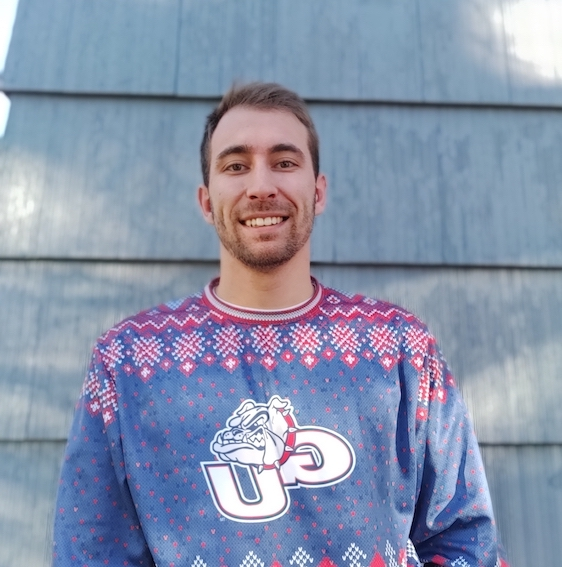
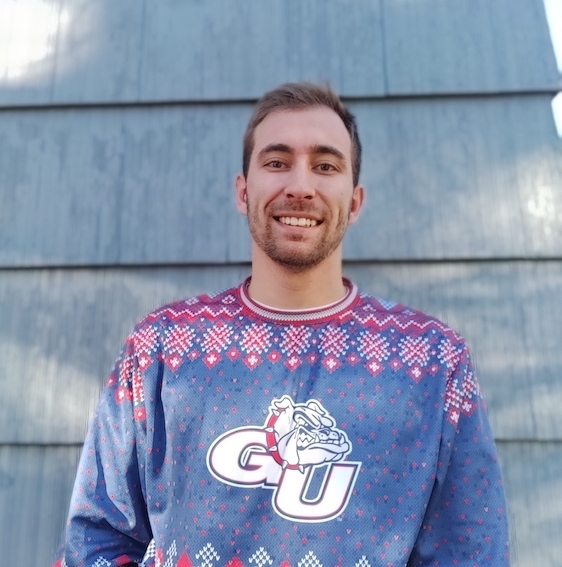
Flips image and fixes bugs

diff --git a/src/components/Home.js b/src/components/Home.js
@@ -184,7 +184,7 @@ class Home extends React.Component {
                                 minHeight: "50vh",
                                 padding: "3rem",}}>
                                     <Text>Recommendations:</Text>
-                        <Carousel>
+                        <Carousel autoPlay="false">
                             <div>
                                 <Text><FormatQuoteIcon/>Josh is a great employee. I've been very impressed with his ability to pick up new skills as well as his attention to detail. Josh is also very easy to work with and is a great team player. He collaborates well with other to ensure a quality product is delivered. He has been a huge asset to the Information Delivery team here at Clearwater Paper during his internship. Josh is just getting started in his career, but I know he's going to go far.<FormatQuoteIcon/><br/></Text>
                                 <Text>Phil Peck, June 10, 2015, managed directly</Text>

diff --git a/src/App.js b/src/App.js
@@ -73,8 +73,8 @@ class App extends React.Component {
         <AppContext.Provider value={{
           isMobile: Boolean(this.state.mobileMoreAnchorEl),
           openConnectDialog: this.openConnectDialog,
-          setLoading: this.isLoading,
-          setLoaded: this.isLoaded,
+          setLoading: this.setLoading,
+          setLoaded: this.setLoaded,
         }}>
         <CssBaseline/>
         <SnackbarProvider SnackbarProps={{ autoHideDuration: 4000 }}>
